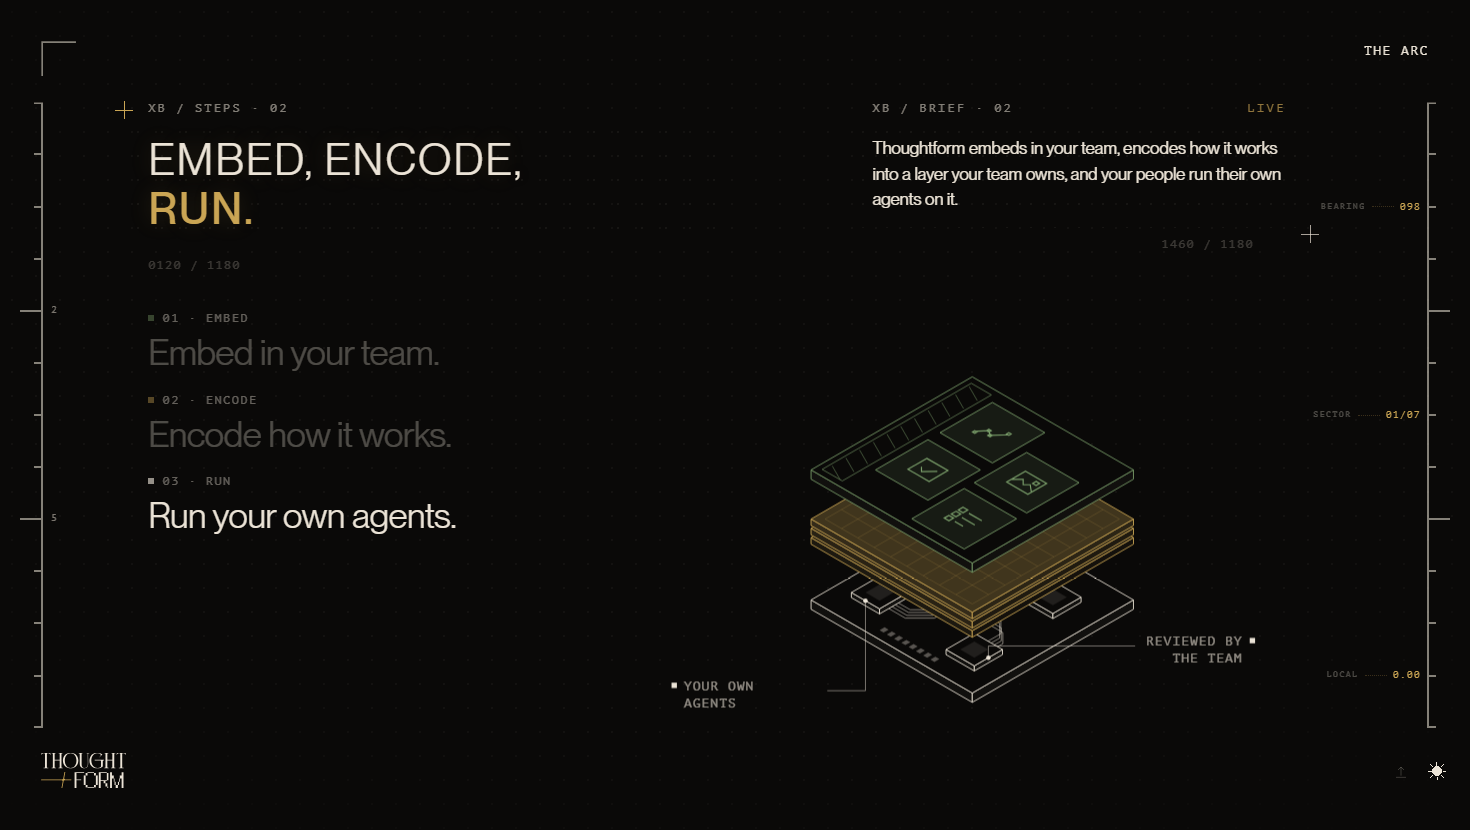
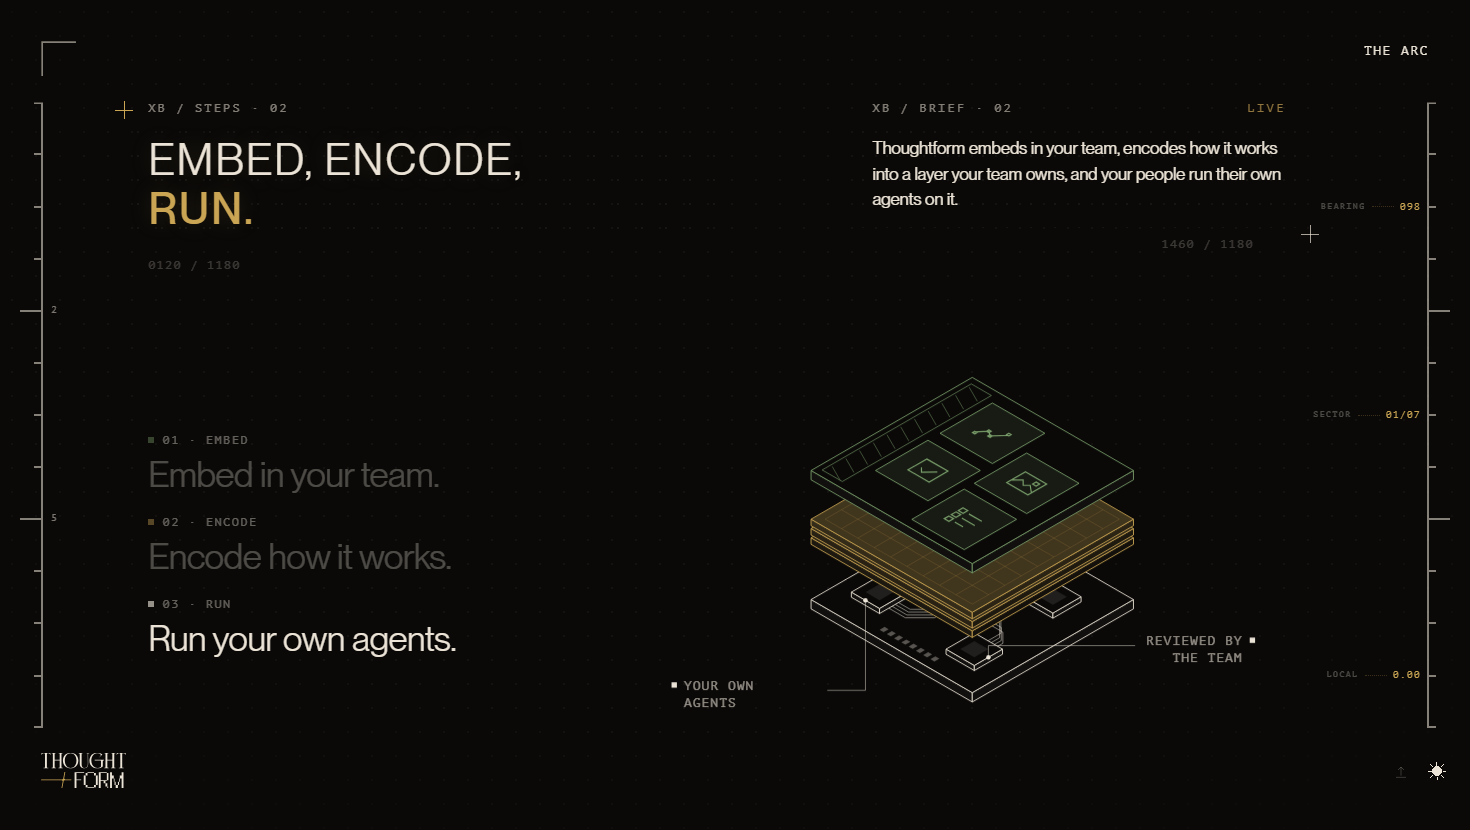
fix(test): the steps sit in the middle and no plate rises past the head
The step list centres in the stage, level with the plate in view. The
plates travel up until the layer is centred, then close about it, so the
team plate never rises past the stage's top and the top fade is gone. The
open gap shrinks to what fits on a short stage. The capture sweeps the
runway and reports the least air above the plates.

diff --git a/components/xb-proposal/embed/EmbedStack.tsx b/components/xb-proposal/embed/EmbedStack.tsx
@@ -9,15 +9,17 @@
    So the drawing is one pinned stage: the three plates start apart, the one
    in view centred and lit with its callouts, and they close into a single
    stack as Run arrives, the whole stack lit. No caption over the plates
-   (owner: "it's really creating dead space"); the stage is never clipped, a
-   plate leaves only by the frame's own edge. Top to bottom is upstream to
+   (owner: "it's really creating dead space"); the stage is never clipped or
+   faded, a plate leaves only by the frame's bottom edge, and the steps sit
+   in the stage's vertical middle, level with the plate in view. Top to
+   bottom is upstream to
    downstream: your team (green, people), the layer (gold, the kit's own
    LayerSlab, the mark etched on it), your agents (dawn, what runs).
 
    The instrument's anatomy (instrument-grammar.md), in the isometric plane:
-   every plate carries the house's single TR notch, and the agents' plate is
-   a minimal circuit board, one notched chip, four ribbons on 45° jogs to
-   four module plates, never a row of play buttons.
+   the agents' plate is a minimal circuit board, one chip, four ribbons on
+   45° jogs to four module plates, never a row of play buttons. The plates
+   carry no notch (owner: it read as "cutting off").
 
    One scroll reader (rAF-throttled) writes the plates' offsets and the
    stage's translate; React re-renders only when the step changes. Reduced
@@ -48,8 +50,16 @@ const NOTCH = 0;
 const FACE_MID = OY + S * 0.5 * U;
 /* The plates' spacing: apart while a step is read (room enough that the
    next plate rises in from below the frame, owner: "it should never be cut
-   off"), closed at Run. */
-const GAP = { open: 300, closed: 72 };
+   off"), closed at Run. The open gap is a CEILING: on a short stage it
+   shrinks to what fits above the centred plate, never below `min`. */
+const GAP = { open: 300, min: 170, closed: 72 };
+/* The highest ink on a plate (the team plate's upper callout) and the air
+   kept between it and the stage's top edge, both in drawing units. Nothing
+   rises past that line (owner, 2026-10-12: the steps sit in the middle "so
+   we don't have to fade out the top visualization"), so the stage needs no
+   mask: a plate leaves only by the frame's bottom edge. */
+const INK_TOP = 44;
+const AIR = 16;
 
 const GOLD = "var(--xb-gold)";
 const GREEN = "var(--es-green)";
@@ -410,22 +420,26 @@ function Callouts({ i }: { i: number }) {
 
 const PLATES = [TeamPlate, LayerPlate, AgentPlate];
 const seg = (t: number, a: number, b: number) => clamp01((t - a) / (b - a));
-/* Where each step reads on the runway (its anchor): a plate is centred at
-   a third of the travel each, the stack closed at the end. */
-const TRAVEL_END = 0.7;
-const STEP_AT = [0, TRAVEL_END / 2, 0.97];
+/* Where each step reads on the runway (its anchor): Embed at the start,
+   Encode at the half, Run with the stack closed at the end. */
+const TRAVEL_END = 0.5;
+const STEP_AT = [0, TRAVEL_END, 0.97];
 
 /** The scroll's reading, CONTINUOUS (owner: "the diagrams … should scroll
     into view smoothly … it locks at different scroll positions"): every
     scroll tick moves the plates, with no plateau a reader has to scroll
-    through. The plates travel linearly to the last one, then close. */
-function read(p: number): { step: 0 | 1 | 2; gap: number; centre: number; stacked: boolean } {
-  const travel = 2 * seg(p, 0, TRAVEL_END);
-  const close = ease(seg(p, TRAVEL_END - 0.04, 1));
-  const gap = GAP.open - (GAP.open - GAP.closed) * close;
-  /* the plate in view sits centred; as they close, the stack's middle does */
-  const centre = travel + (1 - travel) * close;
-  const step = travel < 0.5 ? 0 : travel < 1.5 ? 1 : 2;
+    through. Two moves, end to end: the stack travels up until the layer is
+    centred, then it closes about the layer, which is what brings the agents'
+    plate up from the frame's bottom edge. The stack never travels past the
+    layer, so the team plate never rises past the stage's top. */
+function read(
+  p: number,
+  open: number
+): { step: 0 | 1 | 2; gap: number; centre: number; stacked: boolean } {
+  const centre = seg(p, 0, TRAVEL_END);
+  const close = ease(seg(p, TRAVEL_END, 1));
+  const gap = open - (open - GAP.closed) * close;
+  const step = centre < 0.5 ? 0 : close < 0.5 ? 1 : 2;
   return { step, gap, centre, stacked: close > 0.98 };
 }
 
@@ -455,13 +469,19 @@ export function EmbedStack() {
       const r = el.getBoundingClientRect();
       const vh = window.innerHeight;
       const p = clamp01(-r.top / Math.max(1, r.height - vh));
-      const st = read(p);
+      const col = s.parentElement!.getBoundingClientRect();
+      const k = col.width / VB_W;
+      /* half the stage, in drawing units: what the centred layer leaves
+         above it for the team plate */
+      const room = col.height / (2 * k) - (FACE_MID - INK_TOP) - AIR;
+      const st = read(p, Math.min(GAP.open, Math.max(GAP.min, room)));
       plates.current.forEach((g, i) =>
         g?.setAttribute("transform", `translate(0 ${(i * st.gap).toFixed(1)})`)
       );
-      const col = s.parentElement!.getBoundingClientRect();
-      const k = col.width / VB_W;
-      const ty = col.height * 0.5 - k * (FACE_MID + st.centre * st.gap);
+      /* the plate in view centred, unless that would lift the team plate's
+         ink past the stage's top; then the stack sits lower instead */
+      const centred = col.height * 0.5 - k * (FACE_MID + st.centre * st.gap);
+      const ty = Math.max(centred, k * (AIR - INK_TOP));
       s.style.transform = `translateY(${ty.toFixed(1)}px)`;
       if (st.step !== last.step || st.stacked !== last.stacked) {
         last = { step: st.step, stacked: st.stacked };

diff --git a/components/xb-proposal/embed/embed.css b/components/xb-proposal/embed/embed.css
@@ -40,11 +40,10 @@
 
 /* ---- the steps, all three at once ---- */
 
-/* the steps sit at the top, right under the head (owner: "the embed encode
-   run can move upwards") */
+/* the steps sit in the stage's vertical middle, level with the plate in
+   view (owner, 2026-10-12: "move a bit down so it's in the middle") */
 .es-left {
-  align-self: start;
-  padding-top: clamp(36px, 6svh, 64px);
+  align-self: center;
 }
 .es-lines {
   display: grid;
@@ -122,14 +121,12 @@
   display: grid;
   min-height: 0;
 }
-/* A plate leaves by the frame's bottom edge; at the top it passes under
-   the held head on a soft fade, never a hard cut. */
+/* No mask and no clip: the reader keeps every plate below the stage's top
+   edge, so a plate leaves only by the frame's bottom edge. */
 .es-stage {
   position: relative;
   height: 100%;
   min-height: 0;
-  -webkit-mask-image: linear-gradient(to bottom, transparent 0, #000 72px);
-  mask-image: linear-gradient(to bottom, transparent 0, #000 72px);
 }
 .es-svg {
   position: absolute;
